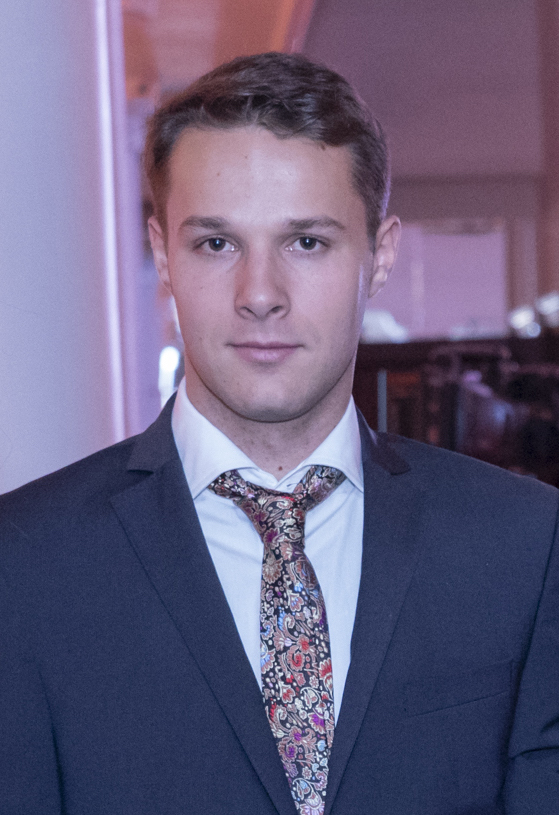
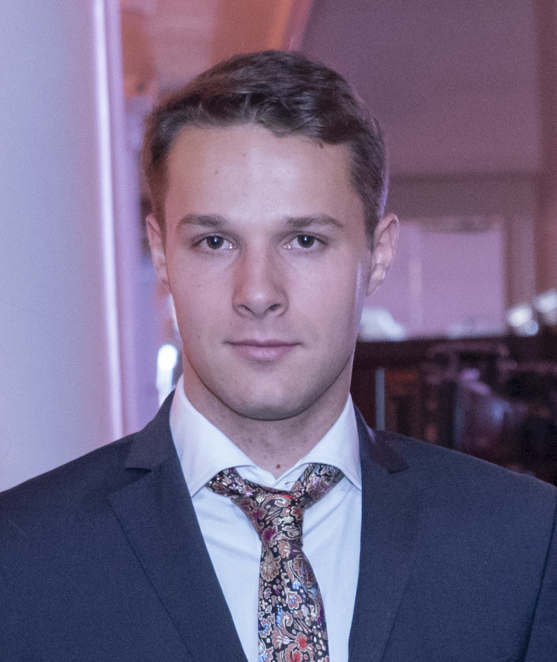
comment

diff --git a/publication/subsidizing-lemons-for-efficient-information-aggregation/index.html b/publication/subsidizing-lemons-for-efficient-information-aggregation/index.html
@@ -676,7 +676,7 @@
   <div class="media author-card" itemscope itemtype="http://schema.org/Person">
     
       
-      <img class="portrait mr-3" src="/authors/admin/avatar_huc9e98cbbac20c4d81cf74c520a0bf2dc_329355_250x250_fill_q90_lanczos_center.jpg" itemprop="image" alt="Avatar">
+      <img class="portrait mr-3" src="/authors/admin/avatar_huc9e98cbbac20c4d81cf74c520a0bf2dc_270896_250x250_fill_q90_lanczos_center.jpg" itemprop="image" alt="Avatar">
     
 
     <div class="media-body">

diff --git a/authors/admin/index.html b/authors/admin/index.html
@@ -413,7 +413,7 @@
 
       
       
-      <img class="portrait" src="/authors/admin/avatar_huc9e98cbbac20c4d81cf74c520a0bf2dc_329355_250x250_fill_q90_lanczos_center.jpg" itemprop="image" alt="Avatar">
+      <img class="portrait" src="/authors/admin/avatar_huc9e98cbbac20c4d81cf74c520a0bf2dc_270896_250x250_fill_q90_lanczos_center.jpg" itemprop="image" alt="Avatar">
       
 
       <div class="portrait-title">

diff --git a/index.html b/index.html
@@ -453,7 +453,7 @@
 
       
       
-      <img class="portrait" src="/authors/admin/avatar_huc9e98cbbac20c4d81cf74c520a0bf2dc_329355_250x250_fill_q90_lanczos_center.jpg" itemprop="image" alt="Avatar">
+      <img class="portrait" src="/authors/admin/avatar_huc9e98cbbac20c4d81cf74c520a0bf2dc_270896_250x250_fill_q90_lanczos_center.jpg" itemprop="image" alt="Avatar">
       
 
       <div class="portrait-title">
